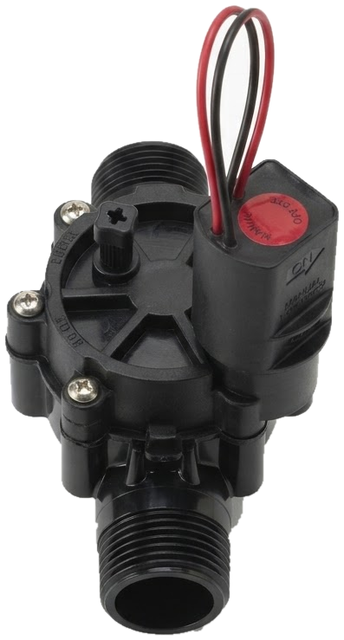
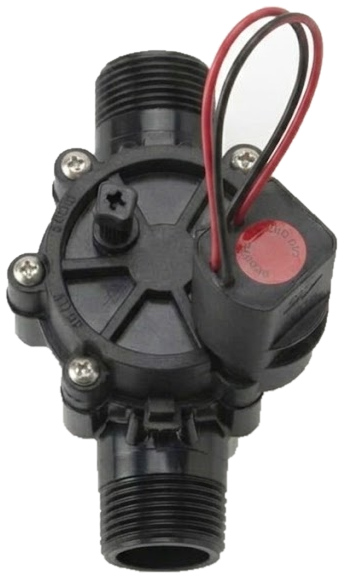
Poser sa nouvelle photo de l'électrovanne MM sur la nourrice
Il a envoyé une photo de l'électrovanne prise plus droit au-dessus, « à la
place des électrovannes mal » : la première, de biais, montrait l'intérieur
du filetage du bas. Ses deux bouts sont mesurés (le haut au sommet de l'arc
de son filetage, un fil longeant son bord droit), sa taille suit le même
1" que les autres pièces, et elle quitte la liste « à reprendre à plat ».
La planche du raccord à plat, qui la montre aussi, prend les mêmes bouts.

Claude-Session: https://claude.ai/code/session_01HCXqYC7rsrdS1vjg7Nqc6M

diff --git a/appli/arrosage-nourrice-vue-du-dessus.html b/appli/arrosage-nourrice-vue-du-dessus.html
@@ -223,7 +223,7 @@
   var TES = {
     aRefaire: ["regulateur-ff34"],
     // Prises d'un peu au-dessus : l'intérieur d'un bout se voit. Elles attendent une photo à plat.
-    pasAPlat: ["clarinette-2v", "clarinette-3v", "clarinette-4v", "electrovanne-100dv", "mamelon", "mamelon-droit-1"],
+    pasAPlat: ["clarinette-2v", "clarinette-3v", "clarinette-4v", "mamelon", "mamelon-droit-1"],
     photos: {
       "coude-mf": "coude-mf-dessus.png", "coude-ff": "coude-ff-dessus.png", "te-mmf": "te-mmf-dessus.png",
       "clarinette-2v": "clarinette-2v-dessus.png", "clarinette-3v": "clarinette-3v-dessus.png", "clarinette-4v": "clarinette-4v-dessus.png",
@@ -253,8 +253,9 @@
       // À plat : le filetage à gauche sur sa photo, l'écrou blanc à droite.
       "raccord-male25":     { a: [0, 0.497], b: [1, 0.4955], L: 66.3 },
       "pehd":               { a: [0, 0.509], b: [1, 0.509], L: 50.6 },
-      // Ses fils montent de 18 px au-dessus de son filetage : sans cet écart, ils entrent dans l'écrou du dessus.
-      "electrovanne-100dv": { a: [0.4255, 0.2149], b: [0.4801, 0.9983], L: 66.6, dessus: 18 },
+      // Sa photo du 21 au soir, prise plus droit au-dessus que la première. Le haut se lit au
+      // sommet de l'arc de son filetage (un fil longe son bord droit) ; ses fils montent de 6 px.
+      "electrovanne-100dv": { a: [0.4556, 0.0779], b: [0.4737, 1], L: 74.3, dessus: 6.2 },
       // Vue du dessus, sa bobine et ses fils montent de 25,6 px au-dessus du bout du haut :
       // l'écart d'avant s'agrandit d'autant, sans quoi ils couvrent le mamelon 1" posé au-dessus.
       "electrovanne-100dv-ff": { a: [0.2679, 0.6664], b: [1, 0.577], L: 71, dessus: 25.6 },

diff --git a/appli/arrosage-raccord-a-plat.html b/appli/arrosage-raccord-a-plat.html
@@ -50,7 +50,7 @@
 (function () {
   // Les mêmes que la nourrice vue du dessus : a, le bout du haut ; b, le bout du bas ; L, la longueur dessinée.
   var COLONNE = {
-    "electrovanne-100dv": { photo: "electrovanne-100dv-dessus.png", a: [0.4255, 0.2149], b: [0.4801, 0.9983], L: 50 },
+    "electrovanne-100dv": { photo: "electrovanne-100dv-dessus.png", a: [0.4556, 0.0779], b: [0.4737, 1], L: 50 },
     "union":              { photo: "union-ff-dessus.png", a: [0, 0.4929], b: [1, 0.4999], L: 46 },
     "raccord-avant":      { photo: "raccord-male25.jpg", a: [0.092, 0.66], b: [0.931, 0.326], L: 40 },
     // Sa photo à plat : le filetage à gauche, l'écrou blanc à droite ; mesurée bout à bout.
